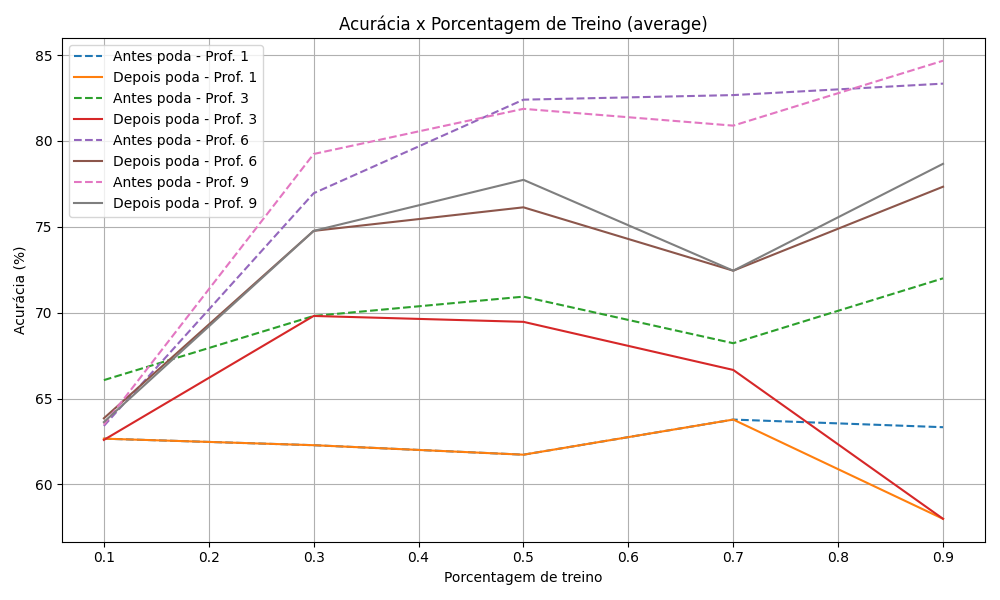
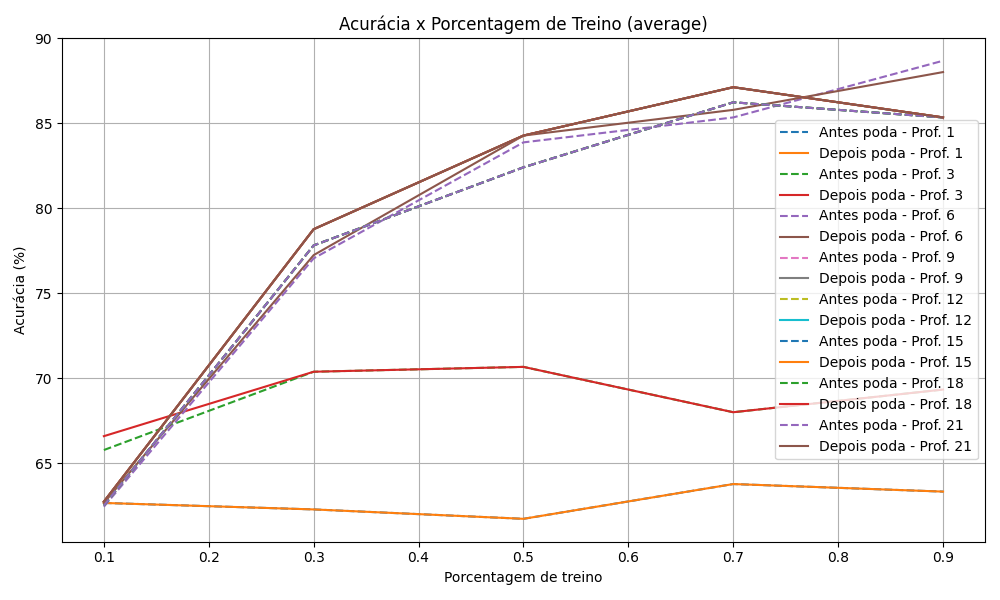
Melhorias no C4.5

diff --git a/t2/c45.py b/t2/c45.py
@@ -1,4 +1,5 @@
 import math
+from collections import Counter
 import pandas as pd
 from scipy.stats import norm
 import matplotlib.pyplot as plt
@@ -15,6 +16,7 @@ class c45Node:
         self.attribute = None
         self.threshold = None
         self.data = data
+        self.classification = None
         if entropy is None:
             self.entropy = self.calcEntropy()
         else:
@@ -27,8 +29,13 @@ class c45Node:
             count += child.count_nodes()
         return count
     
+    def all_same_class(self):
+        classes = [row[-1] for row in self.data]
+        return all(c == classes[0] for c in classes)
+    
     def build_tree(self):
-        if self.lvl > self.maxDepth or len(self.data) == 0:
+        if self.lvl > self.maxDepth or len(self.data) <= 2 or self.all_same_class():
+            self.classification = get_majority_class(self.data)
             return
         att = None
         minEntropy = None
@@ -54,6 +61,9 @@ class c45Node:
         self.attribute = att
         #print(f"Dividindo no atributo {att} com threshold {minEntropyThreshold} (entropia: {minEntropy})")
         self.threshold = minEntropyThreshold
+        if len(left) == 0 or len(right) == 0:
+            self.classification = get_majority_class(self.data)
+            return
         self.separateData(att, minEntropyThreshold, entropy1, entropy2)
         for child in self.children:
             child.build_tree()
@@ -124,11 +134,14 @@ class c45Node:
 
     def classify(self, data):
         if self.children == []:
-            class_counts = {}
-            for item in self.data:
-                label = item[-1]
-                class_counts[label] = class_counts.get(label, 0) + 1
-            return max(class_counts.items(), key=lambda x: x[1])[0]
+            if self.classification:
+                return self.classification
+            else:
+                class_counts = {}
+                for item in self.data:
+                    label = item[-1]
+                    class_counts[label] = class_counts.get(label, 0) + 1
+                return max(class_counts.items(), key=lambda x: x[1])[0]
         else:
             if data[self.attribute] < self.threshold:
                 return self.children[0].classify(data)
@@ -143,52 +156,64 @@ def validate(data, tree):
         #print(f"Classificando {i+1}/{len(data)}: {data[i]} -> {tree.classify(data[i])} (esperado: {data[i][-1]})")
     return correct / len(data)
 
-def pruning(tree, confidence, z=None, pruning_data=None):
+
+def pruning(tree, confidence=0.75, z=None):
     global NOS_PODADOS
     if z is None:
-        z = norm.ppf((1 + confidence) / 2)
-    if pruning_data is None:
-        pruning_data = tree.data
+        z = norm.ppf((1 + confidence) / 2)  # valor z do intervalo de confiança
 
     for child in tree.children:
-        pruning(child, confidence, z, pruning_data)
+        pruning(child, confidence, z)
 
     if tree.children:
-        error_subtree = calcErrorRate(tree, pruning_data, z)
         majority_class = get_majority_class(tree.data)
-        error_as_leaf = calcLeafErrorRate(tree, pruning_data, majority_class, z)
+        n = len(tree.data)
+        f_leaf = sum(1 for row in tree.data if row[-1] != majority_class)
+        error_as_leaf = laplace_error(f_leaf, n, z)
+
+        f_subtree = count_subtree_errors(tree)
+        error_subtree = laplace_error(f_subtree, n, z)
 
         if error_as_leaf <= error_subtree:
             tree.children.clear()
             tree.attribute = None
             tree.threshold = None
+            tree.classification = majority_class
             NOS_PODADOS += 1
 
+
 def get_majority_class(data):
-    from collections import Counter
     labels = [row[-1] for row in data]
     return Counter(labels).most_common(1)[0][0]
 
-def calcLeafErrorRate(tree, data, majority_class, z):
-    errors = sum(1 for row in data if row[-1] != majority_class)
-    f = errors / len(data)
-    return f + z * math.sqrt((f * (1 - f)) / len(data))
+def laplace_error(f, n, z):
+    if n == 0:
+        return 0
+    f_n = f / n
+    return (f + z**2 / 2 + z * math.sqrt(f_n * (1 - f_n) + z**2 / (4 * n))) / (n + z**2)
 
-def calcErrorRate(tree, data, z):
-    f = 0
-    for i in range(len(data)):
-        if int(tree.classify(data[i])) != int(data[i][-1]):
-            f += 1
-    f = f / len(data)
-    return f + z * math.sqrt((f * (1 - f)) / len(data))
+def count_subtree_errors(tree):
+    if not tree.children:
+        return sum(1 for row in tree.data if row[-1] != tree.classification)
+    return sum(count_subtree_errors(child) for child in tree.children)
+
+
+def classify_row(tree, row):
+    while tree.children:
+        if row[tree.attribute] < tree.threshold:
+            tree = tree.children[0]
+        else:
+            tree = tree.children[1]
+    return tree.classification
+
 
 def testar_variacoes(data_path="dataset/treino_sinais_vitais_com_label.csv"):
     global NOS_PODADOS
     data = pd.read_csv(data_path).values
     training_percentages = [0.1, 0.3, 0.5, 0.7, 0.9]
     methods = ['median', 'average', 'entropy']
-    confidence = 0.3
-    maxDepth_values = [1, 3, 6, 9]  # Vários máximos de profundidade para comparar
+    confidence = 0.69
+    maxDepth_values = [1, 3, 6, 9, 12, 15, 18, 21]  # Vários máximos de profundidade para comparar
 
     os.makedirs("graficos/c45", exist_ok=True)
 
@@ -215,9 +240,9 @@ def testar_variacoes(data_path="dataset/treino_sinais_vitais_com_label.csv"):
 
                 acc_antes = validate(teste, tree)
                 NOS_PODADOS = 0
-                pruning(tree, confidence=confidence, pruning_data=treino)
+                pruning(tree, confidence=confidence)
                 acc_depois = validate(teste, tree)
-
+                print(f"Número de nós podados: {NOS_PODADOS}")
                 resultados[method][maxDepth]['antes'].append(acc_antes)
                 resultados[method][maxDepth]['depois'].append(acc_depois)
 
